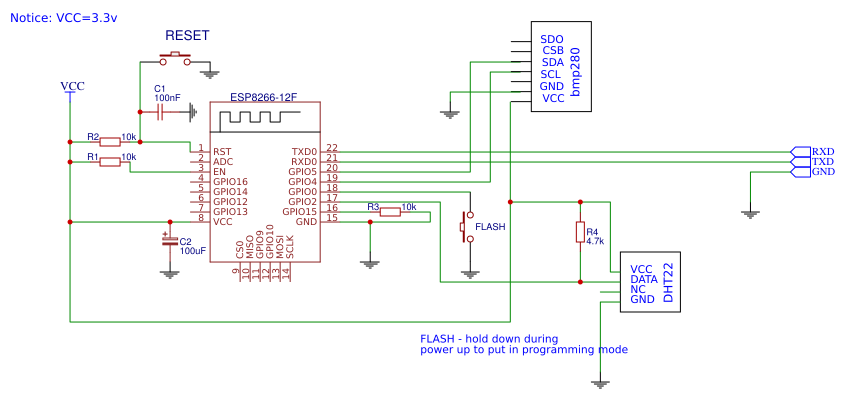
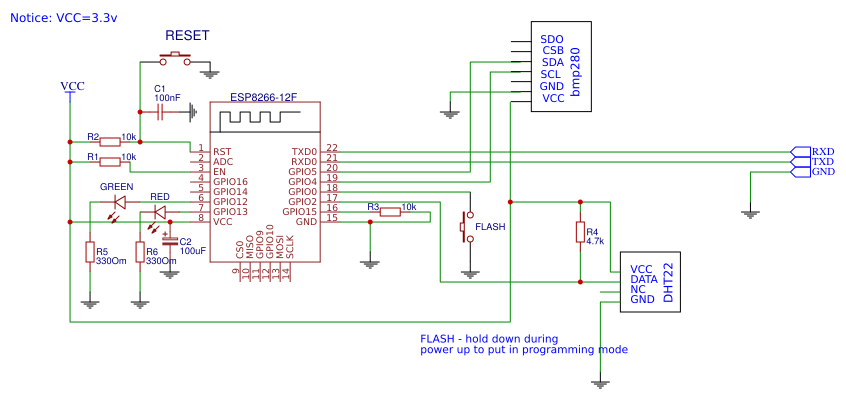
relace schematic

Changed region(s): [[0.0922, 0.4523, 0.2151, 0.6633], [0.1537, 0.7538, 0.1844, 0.7839], [0.0922, 0.7538, 0.1229, 0.7839]]

diff --git a/README.md b/README.md
@@ -24,8 +24,9 @@ Used components:
       + power source(3.3v 500mA)
       + bredboard or pcb
       + connectors
-      + resistors : 10kOm , 4.7kOm
+      + resistors : 10kOm , 4.7kOm, 330Om
       + capacitor : 100uF, 100nF
+      + green led, red led
       + USB-TTL converter on 3.3v
   2. software
       + Java 7 or above
@@ -70,7 +71,8 @@ ____
       + датчики BMP280, DHT11 или DHT22. Дополнительно можно подключать DS18B20
       + USB-TTL конвертер с напряжением  *3.3В* 
       + источник на *3.3В*
-      + резисторы с номиналами 10кОм 3шт, 4,7кОм , конденсаторы электролитический на 100мкФ x 6.3В и любой на 100пФ
+      + резисторы с номиналами 10кОм 3шт, 4,7кОм, 330Ом 2шт , конденсаторы электролитический на 100мкФ x 6.3В и любой на 100пФ
+      + светодиод красный, светодиод зелёный
       + кнопочный переключатель 2шт.
       + соединительные провода, плата
    2. Программы
